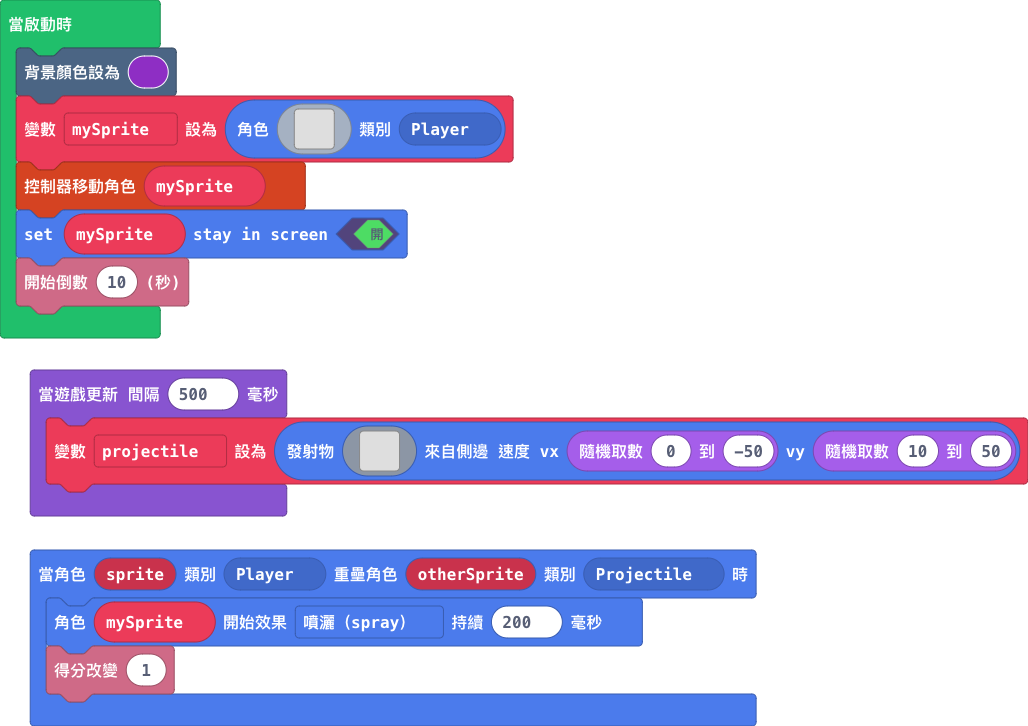
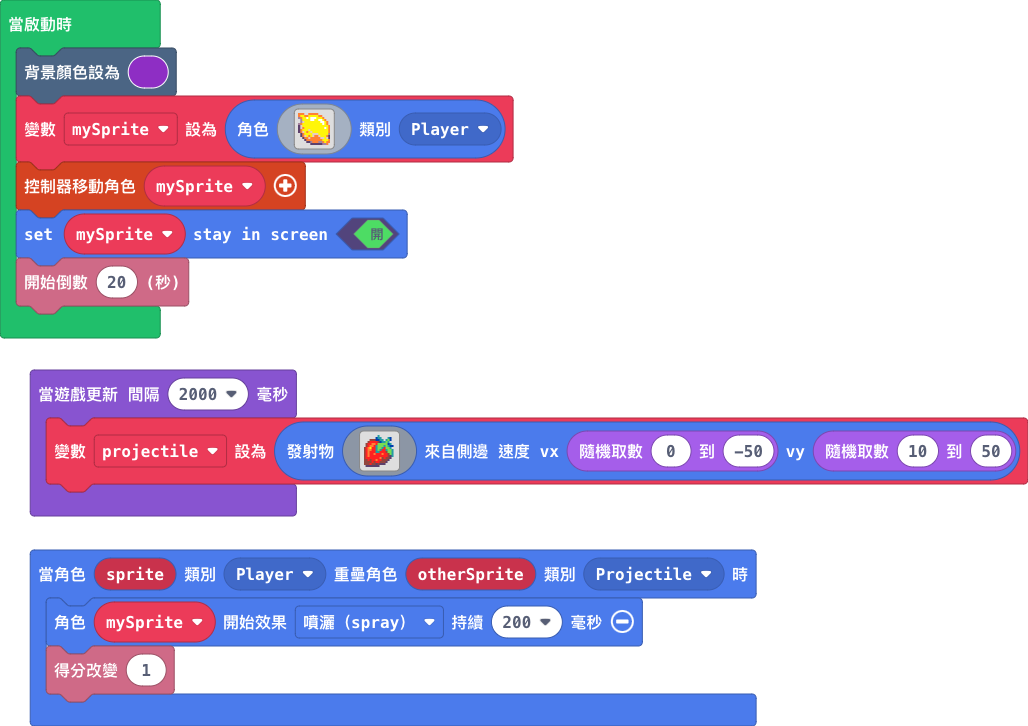
更新 main.blocks, main.ts

diff --git a/main.ts b/main.ts
@@ -25,8 +25,8 @@ mySprite = sprites.create(img`
     `, SpriteKind.Player)
 controller.moveSprite(mySprite)
 mySprite.setStayInScreen(true)
-info.startCountdown(10)
-game.onUpdateInterval(500, function () {
+info.startCountdown(20)
+game.onUpdateInterval(2000, function () {
     projectile = sprites.createProjectileFromSide(img`
         . . . . . . . 6 . . . . . . . . 
         . . . . . . 8 6 6 . . . 6 8 . . 
